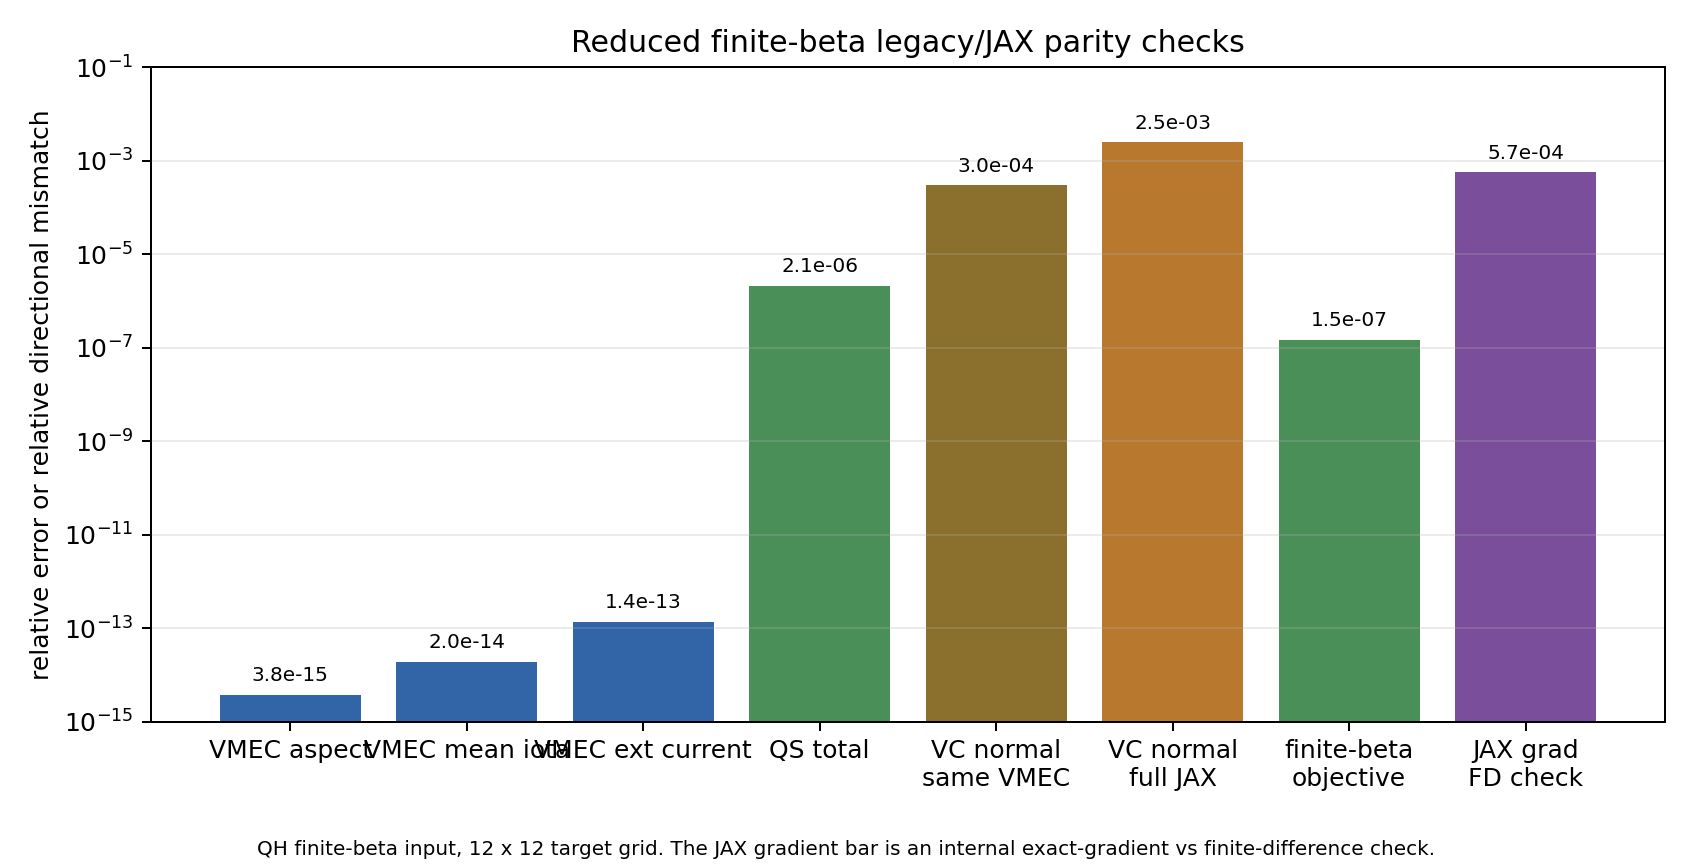
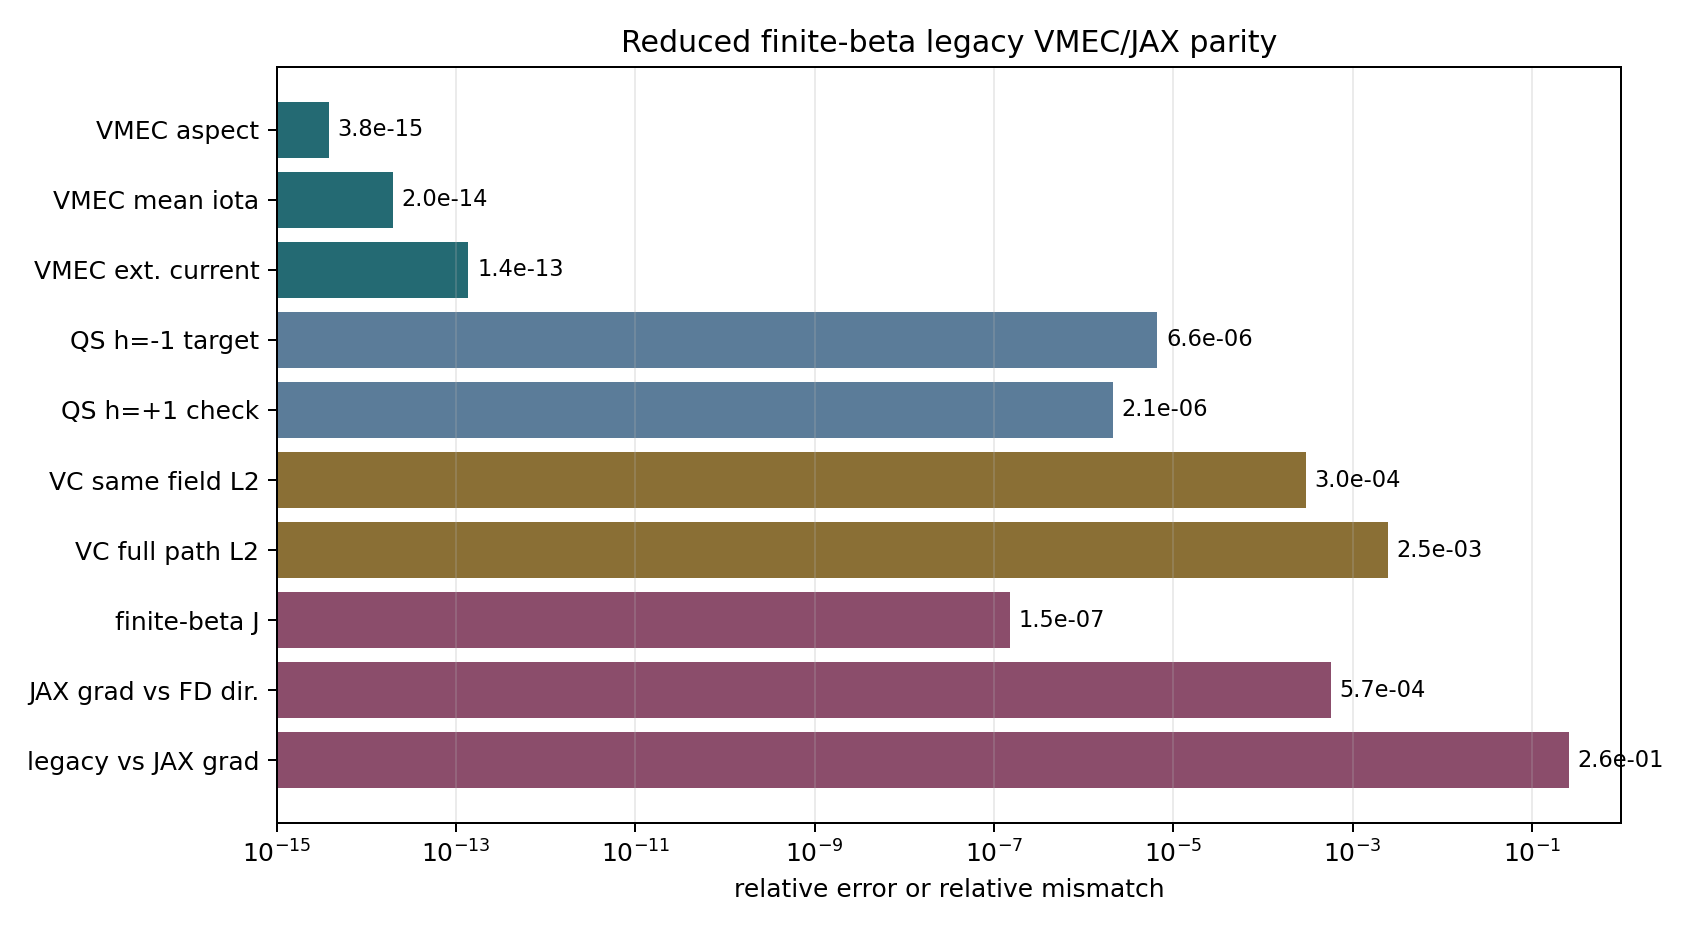
Add opt-in legacy VMEC JAX comparison

diff --git a/tests/mhd/test_vmec_jax_legacy_comparison.py b/tests/mhd/test_vmec_jax_legacy_comparison.py
@@ -1,0 +1,153 @@
+import os
+from tempfile import TemporaryDirectory
+import unittest
+
+import numpy as np
+
+from simsopt.mhd import VirtualCasing, VirtualCasingJax, Vmec, VmecJax
+from simsopt.mhd.vmec_diagnostics import QuasisymmetryRatioResidual
+from simsopt.mhd.vmec_diagnostics_jax import QuasisymmetryRatioResidualJax
+
+try:
+    import vmec  # noqa: F401
+    import mpi4py  # noqa: F401
+    import virtual_casing  # noqa: F401
+    import vmec_jax
+    import virtual_casing_jax  # noqa: F401
+except ImportError:
+    LEGACY_COMPARISON_DEPS_FOUND = False
+else:
+    LEGACY_COMPARISON_DEPS_FOUND = True
+
+ROOT = os.path.abspath(os.path.join(os.path.dirname(__file__), "..", ".."))
+RUN_LEGACY_COMPARISON = (
+    os.environ.get("SIMSOPT_RUN_LEGACY_VMEC_JAX_COMPARISON", "").lower()
+    in ("1", "true", "yes")
+)
+
+
+@unittest.skipUnless(
+    RUN_LEGACY_COMPARISON,
+    "Set SIMSOPT_RUN_LEGACY_VMEC_JAX_COMPARISON=1 to run legacy VMEC comparisons.",
+)
+@unittest.skipUnless(
+    LEGACY_COMPARISON_DEPS_FOUND,
+    "legacy VMEC, virtual_casing, vmec_jax, or virtual_casing_jax not found",
+)
+class LegacyVmecJaxComparisonTests(unittest.TestCase):
+    def test_reduced_finite_beta_comparison(self):
+        try:
+            vmec_jax._compat.enable_x64(True)
+        except AttributeError:
+            pass
+
+        input_file = os.path.abspath(
+            os.path.join(
+                ROOT,
+                "examples",
+                "3_Advanced",
+                "inputs",
+                "input.QH_finitebeta",
+            )
+        )
+
+        with TemporaryDirectory() as tmp:
+            cwd = os.getcwd()
+            try:
+                os.chdir(tmp)
+                legacy = Vmec(
+                    input_file,
+                    verbose=False,
+                    keep_all_files=False,
+                    nphi=12,
+                    ntheta=12,
+                    range_surface="half period",
+                )
+                jax_vmec = VmecJax(
+                    input_file,
+                    verbose=False,
+                    keep_all_files=False,
+                    nphi=12,
+                    ntheta=12,
+                    range_surface="half period",
+                )
+                legacy.run()
+                jax_vmec.run()
+
+                np.testing.assert_allclose(jax_vmec.aspect(), legacy.aspect(), rtol=1e-10)
+                np.testing.assert_allclose(
+                    jax_vmec.mean_iota(), legacy.mean_iota(), rtol=1e-10
+                )
+                np.testing.assert_allclose(
+                    jax_vmec.external_current(), legacy.external_current(), rtol=1e-10
+                )
+
+                surfaces = [0.25, 0.5, 0.75]
+                qs_legacy = QuasisymmetryRatioResidual(
+                    legacy,
+                    surfaces,
+                    helicity_m=1,
+                    helicity_n=-1,
+                    ntheta=12,
+                    nphi=12,
+                ).total()
+                qs_jax = QuasisymmetryRatioResidualJax(
+                    jax_vmec,
+                    surfaces,
+                    helicity_m=1,
+                    helicity_n=-1,
+                    ntheta=12,
+                    nphi=12,
+                ).total()
+                self.assertLess(abs(qs_legacy - qs_jax) / abs(qs_legacy), 1e-4)
+
+                vc_legacy = VirtualCasing.from_vmec(
+                    legacy,
+                    src_nphi=12,
+                    src_ntheta=12,
+                    trgt_nphi=12,
+                    trgt_ntheta=12,
+                    digits=6,
+                    filename=None,
+                )
+                vc_jax_same_field = VirtualCasingJax.from_vmec(
+                    legacy,
+                    src_nphi=12,
+                    src_ntheta=12,
+                    trgt_nphi=12,
+                    trgt_ntheta=12,
+                    digits=6,
+                    filename=None,
+                )
+                same_field_error = (
+                    np.linalg.norm(
+                        vc_jax_same_field.B_external_normal
+                        - vc_legacy.B_external_normal
+                    )
+                    / np.linalg.norm(vc_legacy.B_external_normal)
+                )
+                self.assertLess(same_field_error, 1e-3)
+
+                vc_jax_full_path = VirtualCasingJax.from_vmec(
+                    jax_vmec,
+                    src_nphi=12,
+                    src_ntheta=12,
+                    trgt_nphi=12,
+                    trgt_ntheta=12,
+                    digits=6,
+                    filename=None,
+                )
+                full_path_error = (
+                    np.linalg.norm(
+                        vc_jax_full_path.B_external_normal
+                        - vc_legacy.B_external_normal
+                    )
+                    / np.linalg.norm(vc_legacy.B_external_normal)
+                )
+                self.assertLess(full_path_error, 5e-3)
+            finally:
+                os.chdir(cwd)
+
+
+if __name__ == "__main__":
+    unittest.main()

diff --git a/docs/source/example_jax_mhd.rst b/docs/source/example_jax_mhd.rst
@@ -228,7 +228,9 @@ legacy and JAX calculations.
 The scalar VMEC diagnostics agree to roundoff for the finite-beta input:
 aspect differs by ``3.8e-15`` relatively, mean iota by ``2.0e-14``, and
 external current by ``1.4e-13``. The reduced three-surface
-quasisymmetry objective differs by ``2.1e-6`` relatively. On the same
+quasisymmetry objective with the example's target helicity
+``helicity_n=-1`` differs by ``6.6e-6`` relatively; the corresponding
+``helicity_n=+1`` convention check differs by ``2.1e-6``. On the same
 legacy VMEC field, ``VirtualCasingJax`` and legacy virtual-casing
 ``B_external_normal`` differ by ``3.0e-4`` in relative L2 norm; comparing
 the full ``VmecJax -> VirtualCasingJax`` path to the legacy
@@ -284,6 +286,14 @@ one upstream JAX deprecation warning. Public CI installs ``vmec_jax`` and
 ``booz_xform_jax`` directly. Since ``virtual_casing_jax`` is currently a
 private upstream repository, public CI attempts that install but lets the
 virtual-casing-specific JAX tests skip when credentials are not available.
+
+The legacy VMEC2000 comparison is opt-in because it requires local legacy
+``vmec`` and ``virtual_casing`` Python extensions. In an environment with
+those dependencies, run:
+
+.. code-block:: console
+
+    SIMSOPT_RUN_LEGACY_VMEC_JAX_COMPARISON=1 JAX_ENABLE_X64=1 python -m pytest tests/mhd/test_vmec_jax_legacy_comparison.py -q
 
 Current limitations
 -------------------
